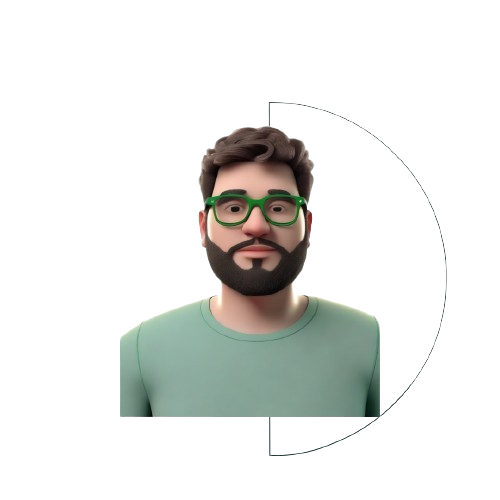
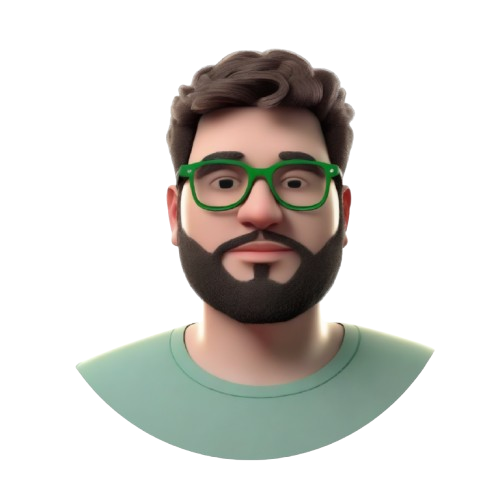
Reemplazo de imagen

Changed region(s): [[0.15, 0.09, 0.87, 0.93], [0.78, 0.3, 0.81, 0.33]]

diff --git a/src/front/js/component/about/about.jsx b/src/front/js/component/about/about.jsx
@@ -13,7 +13,7 @@ const About = () => {
                         </div>
                     </div>
                     <div className="col-md-4">
-                        <img src="..." className="img-fluid rounded-start" alt="..." />
+                        <img src="https://github.com/Sharguidev/personal-portafolio/blob/main/src/front/img/foto_portadev.png?raw=true" className="img-fluid rounded-start" style={{ width: "500px" }} />
                     </div>
                 </div>
             </div>
